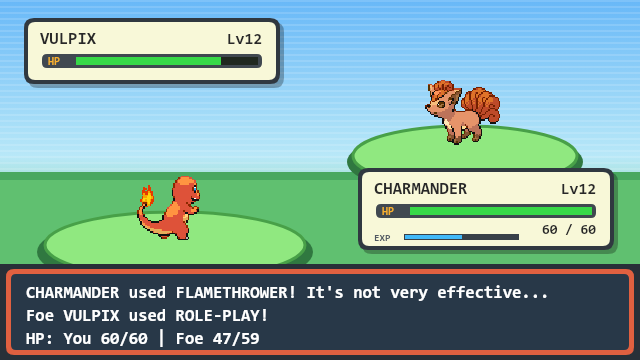
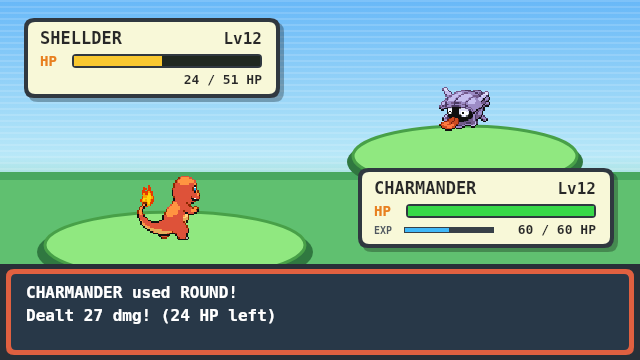
Fix container font rendering, HP bar alignment, and place battle text below GIF

diff --git a/battle-renderer.js b/battle-renderer.js
@@ -116,7 +116,7 @@ function drawArenaBackground(ctx) {
 
 function drawStatusHud(ctx, { x, y, name, level, hp, maxHp, isPlayer, xpRatio = 0.35 }) {
   const w = 256;
-  const h = isPlayer ? 82 : 66;
+  const h = 80;
 
   // Drop shadow
   drawRoundedRect(ctx, x + 4, y + 4, w, h, 10);
@@ -136,32 +136,34 @@ function drawStatusHud(ctx, { x, y, name, level, hp, maxHp, isPlayer, xpRatio = 
   // Pokemon Name & Level
   const displayName = String(name || '???').toUpperCase();
   ctx.fillStyle = '#282828';
-  ctx.font = 'bold 17px Consolas, monospace, sans-serif';
+  ctx.font = 'bold 17px "DejaVu Sans Mono", Consolas, monospace, sans-serif';
   ctx.fillText(displayName, x + 16, y + 26);
 
-  ctx.font = 'bold 16px Consolas, monospace, sans-serif';
+  ctx.font = 'bold 16px "DejaVu Sans Mono", Consolas, monospace, sans-serif';
   const lvlText = `Lv${level || 12}`;
   const lvlWidth = ctx.measureText(lvlText).width;
   ctx.fillText(lvlText, x + w - 18 - lvlWidth, y + 26);
 
-  // HP Bar container
-  const barX = x + 52;
+  // HP Bar container (full width, no empty left badge when HP text is separate)
+  const labelX = x + 16;
+  const barX = x + 48;
   const barY = y + 36;
-  const barW = 186;
+  const barW = 190;
   const barH = 14;
 
-  drawRoundedRect(ctx, barX - 34, barY, barW + 34, barH, 5);
-  ctx.fillStyle = '#404850';
-  ctx.fill();
+  // "HP" label on the cream card to the left of the bar
+  ctx.fillStyle = '#e88020';
+  ctx.font = 'bold 14px "DejaVu Sans Mono", Consolas, monospace, sans-serif';
+  ctx.fillText('HP', labelX, barY + 12);
 
-  // "HP" label in orange/gold
-  ctx.fillStyle = '#f8b030';
-  ctx.font = 'bold 11px Consolas, monospace, sans-serif';
-  ctx.fillText('HP', barX - 28, barY + 11);
+  // Outer HP bar border (starts right at barX so 0% to 100% fills the entire bar!)
+  drawRoundedRect(ctx, barX, barY, barW, barH, 4);
+  ctx.fillStyle = '#303840';
+  ctx.fill();
 
   // Inner empty HP track
   ctx.fillStyle = '#202820';
-  ctx.fillRect(barX, barY + 3, barW - 4, barH - 6);
+  ctx.fillRect(barX + 2, barY + 2, barW - 4, barH - 4);
 
   // Filled HP bar
   const safeMax = Math.max(1, Number(maxHp) || 100);
@@ -171,25 +173,25 @@ function drawStatusHud(ctx, { x, y, name, level, hp, maxHp, isPlayer, xpRatio = 
 
   if (fillW > 0) {
     ctx.fillStyle = getHpColor(ratio);
-    ctx.fillRect(barX, barY + 3, fillW, barH - 6);
+    ctx.fillRect(barX + 2, barY + 2, fillW, barH - 4);
   }
 
-  if (isPlayer) {
-    // Numeric HP counter
-    ctx.fillStyle = '#282828';
-    ctx.font = 'bold 14px Consolas, monospace, sans-serif';
-    const hpNumbers = `${Math.round(safeHp)} / ${Math.round(safeMax)}`;
-    const numW = ctx.measureText(hpNumbers).width;
-    ctx.fillText(hpNumbers, x + w - 18 - numW, y + 66);
+  // Numeric HP counter (shown on both Enemy and Player HUDs)
+  ctx.fillStyle = '#282828';
+  ctx.font = 'bold 13px "DejaVu Sans Mono", Consolas, monospace, sans-serif';
+  const hpNumbers = `${Math.round(safeHp)} / ${Math.round(safeMax)} HP`;
+  const numW = ctx.measureText(hpNumbers).width;
+  ctx.fillText(hpNumbers, x + w - 18 - numW, y + 66);
 
+  if (isPlayer) {
     // EXP bar at bottom of player HUD
     ctx.fillStyle = '#505860';
-    ctx.font = 'bold 10px Consolas, monospace, sans-serif';
-    ctx.fillText('EXP', x + 16, y + 73);
+    ctx.font = 'bold 10px "DejaVu Sans Mono", Consolas, monospace, sans-serif';
+    ctx.fillText('EXP', x + 16, y + 66);
 
     const expX = x + 46;
-    const expY = y + 66;
-    const expW = 115;
+    const expY = y + 59;
+    const expW = 90;
     ctx.fillStyle = '#384048';
     ctx.fillRect(expX, expY, expW, 6);
     ctx.fillStyle = '#40b8f8';
@@ -216,7 +218,7 @@ function drawDialogBox(ctx, lines = []) {
   ctx.fill();
 
   ctx.fillStyle = '#ffffff';
-  ctx.font = 'bold 17px Consolas, monospace, sans-serif';
+  ctx.font = 'bold 16px "DejaVu Sans Mono", Consolas, monospace, sans-serif';
 
   const cleanLines = lines.filter(Boolean).slice(0, 3);
   cleanLines.forEach((line, idx) => {

diff --git a/index.js b/index.js
@@ -204,22 +204,14 @@ if (require.main === module) {
 
 /*
  * Build the JSON payload to send back to Slack.
- * Includes a Block Kit image block for the Dynamic Composite Battle Card
- * and interactive move buttons when moves are available.
+ * Places the Dynamic Composite Battle Card image block FIRST, followed by the
+ * battle log / XP / evolution text and clickable move buttons underneath!
  */
 function buildResponse(text, options = {}) {
   const { cardUrl, moves = [] } = options;
   const fullText = cardUrl ? `${text}\n${cardUrl}` : text;
 
-  const blocks = [
-    {
-      type: 'section',
-      text: {
-        type: 'mrkdwn',
-        text
-      }
-    }
-  ];
+  const blocks = [];
 
   if (cardUrl) {
     blocks.push({
@@ -228,6 +220,14 @@ function buildResponse(text, options = {}) {
       alt_text: 'Pokemon Battle Screen'
     });
   }
+
+  blocks.push({
+    type: 'section',
+    text: {
+      type: 'mrkdwn',
+      text
+    }
+  });
 
   if (moves.length > 0) {
     blocks.push({
